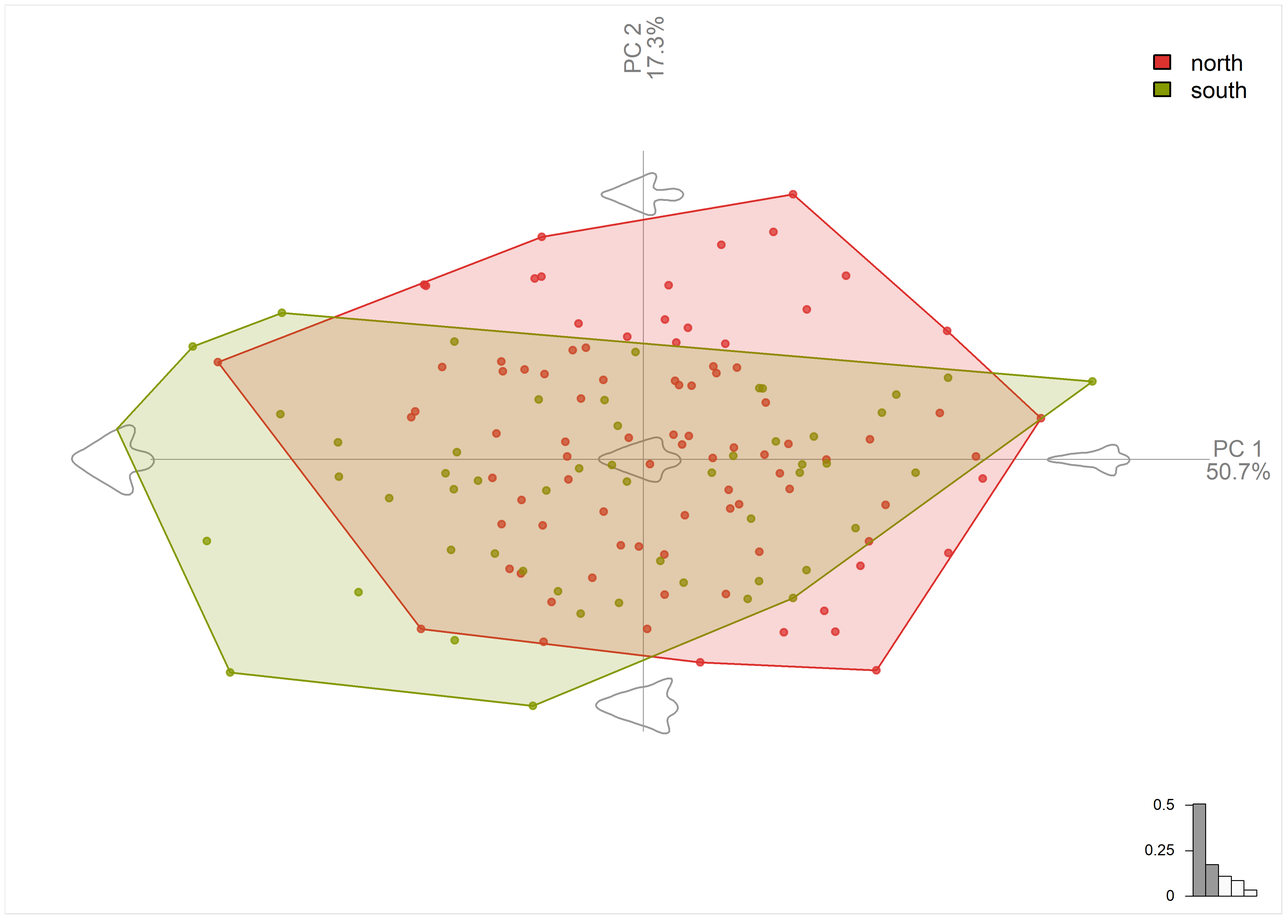
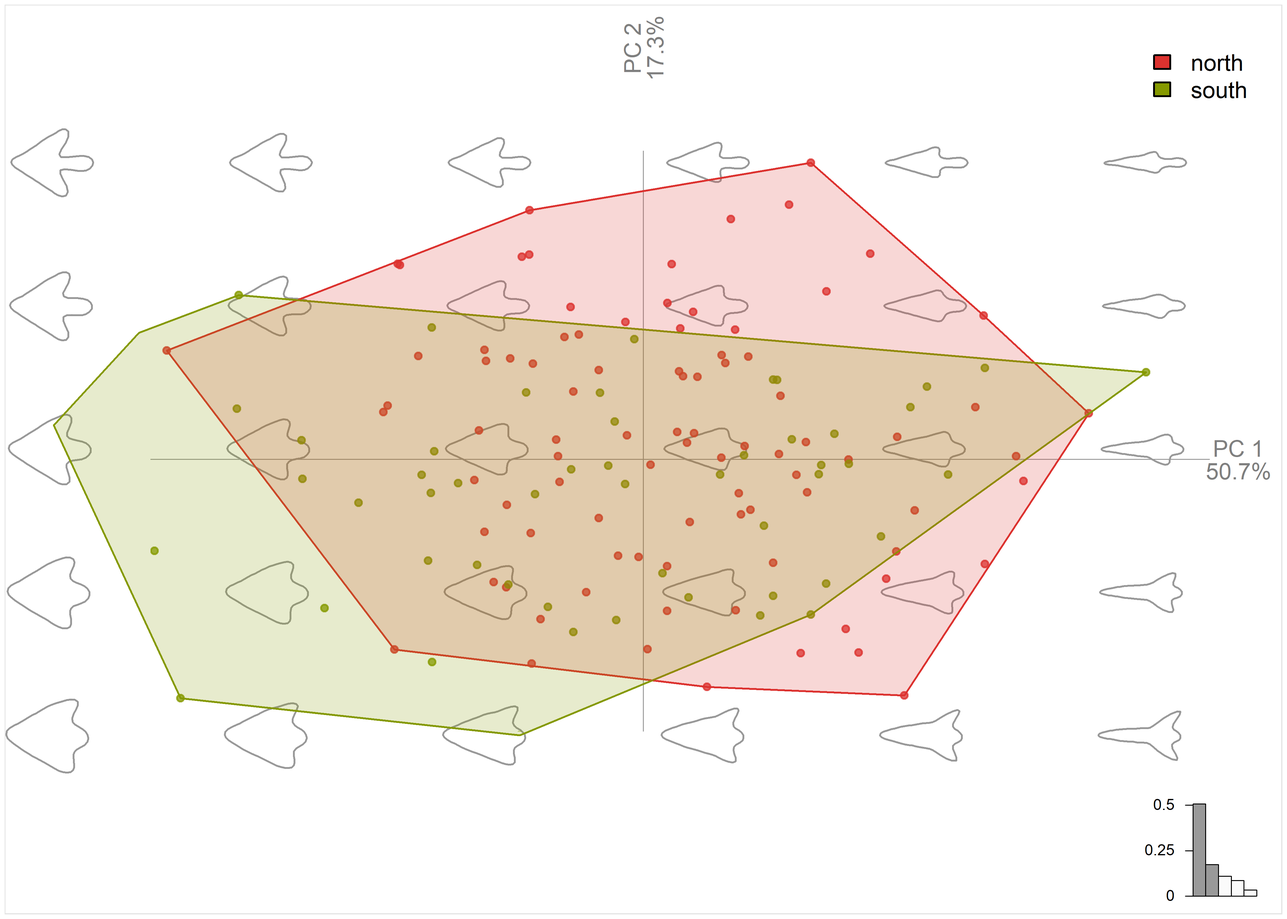
<pca.aesthetics>

diff --git a/docs/elliptical-fourier-analysis.html b/docs/elliptical-fourier-analysis.html
@@ -1349,7 +1349,7 @@ code span.wa { color: #60a0b0; font-weight: bold; font-style: italic; } /* Warni
 ## [ 140 / 142 ]  sy43-4.jpg
 ## [ 141 / 142 ]  sy43-5.jpg
 ## [ 142 / 142 ]  sy43-6.jpg</code></pre>
-<pre><code>## Done in 17.2 secs</code></pre>
+<pre><code>## Done in 17.3 secs</code></pre>
 <div class="sourceCode" id="cb8"><pre class="sourceCode r"><code class="sourceCode r"><span id="cb8-1"><a href="elliptical-fourier-analysis.html#cb8-1" aria-hidden="true" tabindex="-1"></a><span class="co"># add attributes</span></span>
 <span id="cb8-2"><a href="elliptical-fourier-analysis.html#cb8-2" aria-hidden="true" tabindex="-1"></a>data.out <span class="ot">&lt;-</span> <span class="fu">Out</span>(outlines, </span>
 <span id="cb8-3"><a href="elliptical-fourier-analysis.html#cb8-3" aria-hidden="true" tabindex="-1"></a>         <span class="at">fac =</span> att.data)</span>
@@ -1369,216 +1369,111 @@ code span.wa { color: #60a0b0; font-weight: bold; font-style: italic; } /* Warni
 <p><img src="supp_files/figure-html/cal.harm-1.png" width="100%" /></p>
 <pre><code>## 
 ## $q
-##                        h1       h2       h3       h4       h5
-## 489             72.808791 83.78198 95.17554 95.58620 96.94914
-## 490             64.114719 71.74229 80.72420 89.12673 91.89527
-## 553             60.227643 67.66112 78.47978 88.42469 91.97133
-## 554             40.784025 62.70509 71.02441 88.80778 92.02025
-## 555             71.883368 75.67063 83.98654 89.34967 91.27061
-## 556             40.131674 62.71068 66.15981 84.78732 88.45546
-## 558             63.012149 77.73567 90.06870 90.36598 91.90045
-## 559             37.440231 60.66242 71.29934 86.72881 90.17083
-## 562             60.694645 69.96634 77.12798 87.14123 90.12571
-## 565             64.493270 80.33025 89.87705 90.69617 92.26710
-## 591             32.410597 64.36665 71.82945 90.72323 94.12426
-## 598             54.095190 69.79342 80.21895 91.62848 93.17747
-## 645             37.430706 61.77266 70.12401 88.30539 92.41149
-## 646             48.472059 67.04623 73.39793 90.58139 94.34818
-## 647             63.962317 66.40189 73.20076 87.28925 92.34106
-## 648             51.661887 60.75373 67.73491 84.11689 90.80362
-## 649             13.198214 67.02359 73.20792 91.32686 96.27920
-## 650             62.500557 67.69024 73.36673 89.73518 94.63252
-## 651             25.861992 55.85938 68.03343 87.64255 92.73702
-## 652             22.576477 60.60679 68.19757 89.37573 93.98487
-## 653             53.506327 62.33004 70.77582 88.94387 93.68013
-## 654             44.031205 66.31590 73.29146 91.93527 95.20683
-## 655             53.169643 60.43443 64.83868 83.34328 89.55824
-## 656             57.110466 63.11221 68.16400 82.60450 87.07412
-## 657             44.153580 55.01196 61.02296 82.80466 87.94802
-## 658             61.749011 65.60642 71.58815 87.75926 93.23432
-## 659             50.938090 63.91895 68.76493 86.94809 89.69221
-## 660             44.673501 62.32531 67.80680 90.92520 94.83023
-## 661             48.318800 59.00113 64.26505 85.67911 90.52577
-## 665             72.904144 75.33543 80.78979 88.20015 91.08371
-## 677             43.622937 58.91874 66.48334 89.42983 93.54165
-## 678             70.247711 71.42578 81.10140 86.84716 90.52952
-## an115-fig7      52.227029 66.03736 74.39393 88.54440 91.97779
-## an51-fig26a     20.037123 58.27095 69.00891 87.33896 90.87947
-##                       h6       h7       h8       h9      h10
-## 489             97.61501 97.95870 98.99222 99.27944 99.61408
-## 490             97.25527 97.89054 98.43317 98.90168 99.21067
-## 553             97.96056 98.60926 99.03073 99.36751 99.44516
-## 554             97.18926 98.19496 98.35599 98.99227 99.07903
-## 555             96.88514 98.02617 99.22945 99.34429 99.35722
-## 556             94.74772 96.20115 97.07108 98.32436 98.35603
-## 558             93.94937 94.75257 97.47642 98.23127 99.15827
-## 559             96.07668 97.22067 97.71586 98.44616 98.50390
-## 562             96.20471 97.29606 98.57226 99.03098 99.22437
-## 565             94.75796 95.81031 98.49869 99.02328 99.61277
-## 591             97.00883 98.55887 98.61906 98.76021 99.38794
-## 598             97.30424 98.48432 98.73772 99.23659 99.27576
-## 645             97.17813 98.23178 98.46989 98.73442 98.95378
-## 646             96.89540 98.59301 98.84265 99.02189 99.39947
-## 647             97.84810 98.43246 98.57160 99.16726 99.23451
-## 648             96.67577 97.48979 97.90301 98.89001 98.98484
-## 649             97.08839 97.94181 98.50792 98.74961 99.32895
-## 650             98.08290 98.54933 98.77696 99.31998 99.46525
-## 651             96.70377 98.18765 98.36471 98.70513 99.13669
-## 652             96.56320 97.92897 98.12207 98.20926 99.08563
-## 653             97.88528 98.55523 98.78018 99.26962 99.35380
-## 654             97.46861 98.89531 98.97063 99.04404 99.48813
-## 655             96.76372 97.87205 98.10188 99.14485 99.17562
-## 656             95.61119 97.38995 98.24966 99.07245 99.19652
-## 657             95.93126 97.01850 97.71437 98.65702 98.74675
-## 658             98.24621 98.52779 98.82481 99.43320 99.46738
-## 659             95.89946 97.42615 98.12618 99.17514 99.18318
-## 660             96.73639 98.51319 98.64637 98.72393 99.36060
-## 661             96.55592 97.60929 98.05560 98.94426 98.98235
-## 665             97.41274 98.34543 99.00547 99.29183 99.36726
-## 677             96.83488 98.47343 98.69266 98.80843 99.14402
-## 678             96.31749 98.02421 99.25218 99.33627 99.38623
-## an115-fig7      97.28538 98.37656 98.66908 99.30542 99.38414
-## an51-fig26a     95.25013 97.25337 97.51169 97.69137 98.00853
-##                      h11      h12      h13      h14      h15
-## 489             99.66292 99.67257 99.74548 99.77200 99.80462
-## 490             99.26009 99.39885 99.47944 99.54422 99.59587
-## 553             99.53735 99.61913 99.67585 99.71820 99.75627
-## 554             99.18155 99.65220 99.70881 99.74345 99.82060
-## 555             99.65024 99.70336 99.74050 99.84641 99.86700
-## 556             98.48074 98.91994 99.09404 99.22256 99.33403
-## 558             99.24117 99.41253 99.50428 99.56908 99.72318
-## 559             98.65258 99.15941 99.41700 99.61239 99.65349
-## 562             99.49559 99.52488 99.55208 99.75261 99.77378
-## 565             99.62274 99.65681 99.75540 99.77200 99.81405
-## 591             99.56447 99.69590 99.74709 99.77566 99.78641
-## 598             99.30295 99.50219 99.52999 99.55235 99.69048
-## 645             99.08073 99.40631 99.44517 99.47290 99.55845
-## 646             99.48570 99.57729 99.68552 99.70816 99.72993
-## 647             99.33657 99.54623 99.61790 99.66645 99.73749
-## 648             99.05226 99.30660 99.42561 99.52725 99.64522
-## 649             99.45088 99.48496 99.54428 99.68207 99.72057
-## 650             99.56771 99.71114 99.72319 99.74218 99.76137
-## 651             99.30682 99.42507 99.45162 99.50142 99.52530
-## 652             99.26329 99.35190 99.43444 99.46619 99.51808
-## 653             99.44214 99.64394 99.65243 99.71399 99.78507
-## 654             99.58569 99.67358 99.74212 99.75227 99.76880
-## 655             99.18710 99.55622 99.62697 99.74582 99.74946
-## 656             99.44583 99.52592 99.55966 99.75749 99.77316
-## 657             98.81958 99.36470 99.57875 99.72769 99.75758
-## 658             99.50607 99.77579 99.82474 99.84460 99.85641
-## 659             99.26235 99.62159 99.66360 99.70855 99.81597
-## 660             99.56113 99.71252 99.74223 99.74241 99.75423
-## 661             99.00026 99.45111 99.52906 99.58658 99.67788
-## 665             99.57786 99.63159 99.67359 99.78074 99.78648
-## 677             99.27266 99.54711 99.57613 99.60539 99.62761
-## 678             99.56052 99.60291 99.61013 99.70996 99.78256
-## an115-fig7      99.42461 99.61270 99.62449 99.62990 99.65750
-## an51-fig26a     98.43021 98.56876 98.89093 99.10015 99.37975
-##                      h16      h17      h18      h19      h20
-## 489             99.82192 99.82341 99.85272 99.87865 99.91085
-## 490             99.62522 99.63711 99.71079 99.75015 99.75947
-## 553             99.77140 99.78933 99.81395 99.83675 99.88522
-## 554             99.82265 99.84003 99.88827 99.89508 99.90968
-## 555             99.89300 99.92314 99.94175 99.96739 99.96955
-## 556             99.42302 99.55630 99.59933 99.63249 99.66365
-## 558             99.74806 99.78242 99.84868 99.86327 99.88367
-## 559             99.69833 99.74681 99.79044 99.80719 99.82695
-## 562             99.82801 99.85958 99.86190 99.88385 99.89866
-## 565             99.84130 99.86763 99.88482 99.92366 99.94140
-## 591             99.87133 99.87713 99.88817 99.92076 99.92919
-## 598             99.74154 99.75481 99.81876 99.87467 99.87899
-## 645             99.56258 99.59820 99.71182 99.76571 99.83101
-## 646             99.80558 99.82420 99.83787 99.86296 99.89529
-## 647             99.75055 99.76713 99.77742 99.84435 99.86703
-## 648             99.65408 99.70820 99.73725 99.76721 99.84772
-## 649             99.77413 99.79398 99.81656 99.84928 99.87351
-## 650             99.77677 99.79153 99.81017 99.88066 99.88864
-## 651             99.60766 99.64903 99.71442 99.72953 99.80386
-## 652             99.67351 99.77700 99.78891 99.84286 99.85576
-## 653             99.82541 99.84104 99.87795 99.89456 99.89757
-## 654             99.82519 99.84526 99.85335 99.87885 99.89331
-## 655             99.76780 99.77633 99.81093 99.85482 99.87491
-## 656             99.80910 99.81796 99.84004 99.84539 99.89515
-## 657             99.77069 99.78894 99.81597 99.84526 99.85987
-## 658             99.86427 99.86832 99.91702 99.93080 99.94344
-## 659             99.83027 99.84733 99.86700 99.87883 99.88528
-## 660             99.80213 99.82431 99.83041 99.85408 99.87850
-## 661             99.69162 99.70964 99.76618 99.81364 99.85320
-## 665             99.80747 99.84066 99.85990 99.86897 99.90740
-## 677             99.71459 99.77934 99.78599 99.82397 99.84851
-## 678             99.78790 99.85325 99.87332 99.89596 99.90323
-## an115-fig7      99.66926 99.67207 99.72294 99.75347 99.78824
-## an51-fig26a     99.45431 99.66639 99.75295 99.78979 99.81799
-##                      h21      h22      h23      h24      h25
-## 489             99.92286 99.94669 99.96596 99.98339 99.98504
-## 490             99.78940 99.82367 99.86219 99.92748 99.93455
-## 553             99.89000 99.92227 99.92644 99.93262 99.94819
-## 554             99.92937 99.94159 99.94846 99.96047 99.97359
-## 555             99.97635 99.97732 99.98256 99.98329 99.99026
-## 556             99.69817 99.72227 99.73924 99.75857 99.78090
-## 558             99.90459 99.90700 99.92415 99.93280 99.97915
-## 559             99.87185 99.89070 99.93852 99.94821 99.96116
-## 562             99.90624 99.93707 99.94290 99.95298 99.95893
-## 565             99.95881 99.96587 99.98508 99.98571 99.98634
-## 591             99.94188 99.95569 99.96000 99.96944 99.97262
-## 598             99.89069 99.90750 99.93148 99.94348 99.97319
-## 645             99.88606 99.91024 99.91251 99.92711 99.93754
-## 646             99.89981 99.94561 99.94999 99.95108 99.96046
-## 647             99.88193 99.92977 99.95002 99.95551 99.97231
-## 648             99.86568 99.89290 99.92611 99.92919 99.94981
-## 649             99.88844 99.90363 99.90763 99.93084 99.94448
-## 650             99.92889 99.95128 99.95697 99.95804 99.97550
-## 651             99.82414 99.83815 99.86617 99.91585 99.92272
-## 652             99.90064 99.93449 99.93964 99.94659 99.96045
-## 653             99.90810 99.92429 99.94213 99.94952 99.96145
-## 654             99.91234 99.93124 99.94158 99.94476 99.95093
-## 655             99.91767 99.92153 99.93546 99.95328 99.96402
-## 656             99.90107 99.90748 99.93264 99.93569 99.95801
-## 657             99.87213 99.90453 99.93306 99.95702 99.97221
-## 658             99.95814 99.95937 99.96680 99.97460 99.98321
-## 659             99.90467 99.91397 99.94898 99.95854 99.96858
-## 660             99.89197 99.91011 99.92247 99.94037 99.95445
-## 661             99.88166 99.88563 99.89367 99.91834 99.93786
-## 665             99.90987 99.92833 99.94610 99.95185 99.96528
-## 677             99.87206 99.93771 99.93980 99.94562 99.95115
-## 678             99.92267 99.93005 99.94635 99.95250 99.96118
-## an115-fig7      99.82672 99.85442 99.89998 99.95409 99.96209
-## an51-fig26a     99.83093 99.84700 99.86316 99.89490 99.93231
-##                      h26      h27      h28 h29
-## 489             99.99251 99.99371 99.99574 100
-## 490             99.96848 99.98226 99.99078 100
-## 553             99.97288 99.98151 99.98828 100
-## 554             99.97812 99.98289 99.98863 100
-## 555             99.99125 99.99440 99.99454 100
-## 556             99.83743 99.87875 99.97544 100
-## 558             99.98029 99.98517 99.99161 100
-## 559             99.97516 99.98627 99.99001 100
-## 562             99.97706 99.97944 99.99213 100
-## 565             99.99102 99.99496 99.99815 100
-## 591             99.98283 99.98986 99.99933 100
-## 598             99.97965 99.99165 99.99538 100
-## 645             99.94735 99.96603 99.96636 100
-## 646             99.96673 99.97721 99.98563 100
-## 647             99.97771 99.97981 99.99703 100
-## 648             99.96239 99.98568 99.99734 100
-## 649             99.96397 99.97705 99.98854 100
-## 650             99.97808 99.98663 99.99276 100
-## 651             99.96878 99.97907 99.98814 100
-## 652             99.96570 99.97796 99.97914 100
-## 653             99.96616 99.97349 99.98101 100
-## 654             99.97372 99.98650 99.99498 100
-## 655             99.97827 99.98215 99.98870 100
-## 656             99.96491 99.98486 99.99717 100
-## 657             99.97408 99.99000 99.99282 100
-## 658             99.98500 99.99520 99.99921 100
-## 659             99.97314 99.98438 99.99169 100
-## 660             99.97124 99.97581 99.98600 100
-## 661             99.95715 99.98864 99.99733 100
-## 665             99.97796 99.98729 99.99499 100
-## 677             99.96424 99.97163 99.99565 100
-## 678             99.96790 99.97532 99.98628 100
-## an115-fig7      99.96910 99.97535 99.99002 100
-## an51-fig26a     99.96307 99.96865 99.99647 100
+##                        h1       h2       h3       h4       h5       h6       h7       h8       h9      h10      h11      h12      h13
+## 489             72.808791 83.78198 95.17554 95.58620 96.94914 97.61501 97.95870 98.99222 99.27944 99.61408 99.66292 99.67257 99.74548
+## 490             64.114719 71.74229 80.72420 89.12673 91.89527 97.25527 97.89054 98.43317 98.90168 99.21067 99.26009 99.39885 99.47944
+## 553             60.227643 67.66112 78.47978 88.42469 91.97133 97.96056 98.60926 99.03073 99.36751 99.44516 99.53735 99.61913 99.67585
+## 554             40.784025 62.70509 71.02441 88.80778 92.02025 97.18926 98.19496 98.35599 98.99227 99.07903 99.18155 99.65220 99.70881
+## 555             71.883368 75.67063 83.98654 89.34967 91.27061 96.88514 98.02617 99.22945 99.34429 99.35722 99.65024 99.70336 99.74050
+## 556             40.131674 62.71068 66.15981 84.78732 88.45546 94.74772 96.20115 97.07108 98.32436 98.35603 98.48074 98.91994 99.09404
+## 558             63.012149 77.73567 90.06870 90.36598 91.90045 93.94937 94.75257 97.47642 98.23127 99.15827 99.24117 99.41253 99.50428
+## 559             37.440231 60.66242 71.29934 86.72881 90.17083 96.07668 97.22067 97.71586 98.44616 98.50390 98.65258 99.15941 99.41700
+## 562             60.694645 69.96634 77.12798 87.14123 90.12571 96.20471 97.29606 98.57226 99.03098 99.22437 99.49559 99.52488 99.55208
+## 565             64.493270 80.33025 89.87705 90.69617 92.26710 94.75796 95.81031 98.49869 99.02328 99.61277 99.62274 99.65681 99.75540
+## 591             32.410597 64.36665 71.82945 90.72323 94.12426 97.00883 98.55887 98.61906 98.76021 99.38794 99.56447 99.69590 99.74709
+## 598             54.095190 69.79342 80.21895 91.62848 93.17747 97.30424 98.48432 98.73772 99.23659 99.27576 99.30295 99.50219 99.52999
+## 645             37.430706 61.77266 70.12401 88.30539 92.41149 97.17813 98.23178 98.46989 98.73442 98.95378 99.08073 99.40631 99.44517
+## 646             48.472059 67.04623 73.39793 90.58139 94.34818 96.89540 98.59301 98.84265 99.02189 99.39947 99.48570 99.57729 99.68552
+## 647             63.962317 66.40189 73.20076 87.28925 92.34106 97.84810 98.43246 98.57160 99.16726 99.23451 99.33657 99.54623 99.61790
+## 648             51.661887 60.75373 67.73491 84.11689 90.80362 96.67577 97.48979 97.90301 98.89001 98.98484 99.05226 99.30660 99.42561
+## 649             13.198214 67.02359 73.20792 91.32686 96.27920 97.08839 97.94181 98.50792 98.74961 99.32895 99.45088 99.48496 99.54428
+## 650             62.500557 67.69024 73.36673 89.73518 94.63252 98.08290 98.54933 98.77696 99.31998 99.46525 99.56771 99.71114 99.72319
+## 651             25.861992 55.85938 68.03343 87.64255 92.73702 96.70377 98.18765 98.36471 98.70513 99.13669 99.30682 99.42507 99.45162
+## 652             22.576477 60.60679 68.19757 89.37573 93.98487 96.56320 97.92897 98.12207 98.20926 99.08563 99.26329 99.35190 99.43444
+## 653             53.506327 62.33004 70.77582 88.94387 93.68013 97.88528 98.55523 98.78018 99.26962 99.35380 99.44214 99.64394 99.65243
+## 654             44.031205 66.31590 73.29146 91.93527 95.20683 97.46861 98.89531 98.97063 99.04404 99.48813 99.58569 99.67358 99.74212
+## 655             53.169643 60.43443 64.83868 83.34328 89.55824 96.76372 97.87205 98.10188 99.14485 99.17562 99.18710 99.55622 99.62697
+## 656             57.110466 63.11221 68.16400 82.60450 87.07412 95.61119 97.38995 98.24966 99.07245 99.19652 99.44583 99.52592 99.55966
+## 657             44.153580 55.01196 61.02296 82.80466 87.94802 95.93126 97.01850 97.71437 98.65702 98.74675 98.81958 99.36470 99.57875
+## 658             61.749011 65.60642 71.58815 87.75926 93.23432 98.24621 98.52779 98.82481 99.43320 99.46738 99.50607 99.77579 99.82474
+## 659             50.938090 63.91895 68.76493 86.94809 89.69221 95.89946 97.42615 98.12618 99.17514 99.18318 99.26235 99.62159 99.66360
+## 660             44.673501 62.32531 67.80680 90.92520 94.83023 96.73639 98.51319 98.64637 98.72393 99.36060 99.56113 99.71252 99.74223
+## 661             48.318800 59.00113 64.26505 85.67911 90.52577 96.55592 97.60929 98.05560 98.94426 98.98235 99.00026 99.45111 99.52906
+## 665             72.904144 75.33543 80.78979 88.20015 91.08371 97.41274 98.34543 99.00547 99.29183 99.36726 99.57786 99.63159 99.67359
+## 677             43.622937 58.91874 66.48334 89.42983 93.54165 96.83488 98.47343 98.69266 98.80843 99.14402 99.27266 99.54711 99.57613
+## 678             70.247711 71.42578 81.10140 86.84716 90.52952 96.31749 98.02421 99.25218 99.33627 99.38623 99.56052 99.60291 99.61013
+## an115-fig7      52.227029 66.03736 74.39393 88.54440 91.97779 97.28538 98.37656 98.66908 99.30542 99.38414 99.42461 99.61270 99.62449
+## an51-fig26a     20.037123 58.27095 69.00891 87.33896 90.87947 95.25013 97.25337 97.51169 97.69137 98.00853 98.43021 98.56876 98.89093
+##                      h14      h15      h16      h17      h18      h19      h20      h21      h22      h23      h24      h25      h26
+## 489             99.77200 99.80462 99.82192 99.82341 99.85272 99.87865 99.91085 99.92286 99.94669 99.96596 99.98339 99.98504 99.99251
+## 490             99.54422 99.59587 99.62522 99.63711 99.71079 99.75015 99.75947 99.78940 99.82367 99.86219 99.92748 99.93455 99.96848
+## 553             99.71820 99.75627 99.77140 99.78933 99.81395 99.83675 99.88522 99.89000 99.92227 99.92644 99.93262 99.94819 99.97288
+## 554             99.74345 99.82060 99.82265 99.84003 99.88827 99.89508 99.90968 99.92937 99.94159 99.94846 99.96047 99.97359 99.97812
+## 555             99.84641 99.86700 99.89300 99.92314 99.94175 99.96739 99.96955 99.97635 99.97732 99.98256 99.98329 99.99026 99.99125
+## 556             99.22256 99.33403 99.42302 99.55630 99.59933 99.63249 99.66365 99.69817 99.72227 99.73924 99.75857 99.78090 99.83743
+## 558             99.56908 99.72318 99.74806 99.78242 99.84868 99.86327 99.88367 99.90459 99.90700 99.92415 99.93280 99.97915 99.98029
+## 559             99.61239 99.65349 99.69833 99.74681 99.79044 99.80719 99.82695 99.87185 99.89070 99.93852 99.94821 99.96116 99.97516
+## 562             99.75261 99.77378 99.82801 99.85958 99.86190 99.88385 99.89866 99.90624 99.93707 99.94290 99.95298 99.95893 99.97706
+## 565             99.77200 99.81405 99.84130 99.86763 99.88482 99.92366 99.94140 99.95881 99.96587 99.98508 99.98571 99.98634 99.99102
+## 591             99.77566 99.78641 99.87133 99.87713 99.88817 99.92076 99.92919 99.94188 99.95569 99.96000 99.96944 99.97262 99.98283
+## 598             99.55235 99.69048 99.74154 99.75481 99.81876 99.87467 99.87899 99.89069 99.90750 99.93148 99.94348 99.97319 99.97965
+## 645             99.47290 99.55845 99.56258 99.59820 99.71182 99.76571 99.83101 99.88606 99.91024 99.91251 99.92711 99.93754 99.94735
+## 646             99.70816 99.72993 99.80558 99.82420 99.83787 99.86296 99.89529 99.89981 99.94561 99.94999 99.95108 99.96046 99.96673
+## 647             99.66645 99.73749 99.75055 99.76713 99.77742 99.84435 99.86703 99.88193 99.92977 99.95002 99.95551 99.97231 99.97771
+## 648             99.52725 99.64522 99.65408 99.70820 99.73725 99.76721 99.84772 99.86568 99.89290 99.92611 99.92919 99.94981 99.96239
+## 649             99.68207 99.72057 99.77413 99.79398 99.81656 99.84928 99.87351 99.88844 99.90363 99.90763 99.93084 99.94448 99.96397
+## 650             99.74218 99.76137 99.77677 99.79153 99.81017 99.88066 99.88864 99.92889 99.95128 99.95697 99.95804 99.97550 99.97808
+## 651             99.50142 99.52530 99.60766 99.64903 99.71442 99.72953 99.80386 99.82414 99.83815 99.86617 99.91585 99.92272 99.96878
+## 652             99.46619 99.51808 99.67351 99.77700 99.78891 99.84286 99.85576 99.90064 99.93449 99.93964 99.94659 99.96045 99.96570
+## 653             99.71399 99.78507 99.82541 99.84104 99.87795 99.89456 99.89757 99.90810 99.92429 99.94213 99.94952 99.96145 99.96616
+## 654             99.75227 99.76880 99.82519 99.84526 99.85335 99.87885 99.89331 99.91234 99.93124 99.94158 99.94476 99.95093 99.97372
+## 655             99.74582 99.74946 99.76780 99.77633 99.81093 99.85482 99.87491 99.91767 99.92153 99.93546 99.95328 99.96402 99.97827
+## 656             99.75749 99.77316 99.80910 99.81796 99.84004 99.84539 99.89515 99.90107 99.90748 99.93264 99.93569 99.95801 99.96491
+## 657             99.72769 99.75758 99.77069 99.78894 99.81597 99.84526 99.85987 99.87213 99.90453 99.93306 99.95702 99.97221 99.97408
+## 658             99.84460 99.85641 99.86427 99.86832 99.91702 99.93080 99.94344 99.95814 99.95937 99.96680 99.97460 99.98321 99.98500
+## 659             99.70855 99.81597 99.83027 99.84733 99.86700 99.87883 99.88528 99.90467 99.91397 99.94898 99.95854 99.96858 99.97314
+## 660             99.74241 99.75423 99.80213 99.82431 99.83041 99.85408 99.87850 99.89197 99.91011 99.92247 99.94037 99.95445 99.97124
+## 661             99.58658 99.67788 99.69162 99.70964 99.76618 99.81364 99.85320 99.88166 99.88563 99.89367 99.91834 99.93786 99.95715
+## 665             99.78074 99.78648 99.80747 99.84066 99.85990 99.86897 99.90740 99.90987 99.92833 99.94610 99.95185 99.96528 99.97796
+## 677             99.60539 99.62761 99.71459 99.77934 99.78599 99.82397 99.84851 99.87206 99.93771 99.93980 99.94562 99.95115 99.96424
+## 678             99.70996 99.78256 99.78790 99.85325 99.87332 99.89596 99.90323 99.92267 99.93005 99.94635 99.95250 99.96118 99.96790
+## an115-fig7      99.62990 99.65750 99.66926 99.67207 99.72294 99.75347 99.78824 99.82672 99.85442 99.89998 99.95409 99.96209 99.96910
+## an51-fig26a     99.10015 99.37975 99.45431 99.66639 99.75295 99.78979 99.81799 99.83093 99.84700 99.86316 99.89490 99.93231 99.96307
+##                      h27      h28 h29
+## 489             99.99371 99.99574 100
+## 490             99.98226 99.99078 100
+## 553             99.98151 99.98828 100
+## 554             99.98289 99.98863 100
+## 555             99.99440 99.99454 100
+## 556             99.87875 99.97544 100
+## 558             99.98517 99.99161 100
+## 559             99.98627 99.99001 100
+## 562             99.97944 99.99213 100
+## 565             99.99496 99.99815 100
+## 591             99.98986 99.99933 100
+## 598             99.99165 99.99538 100
+## 645             99.96603 99.96636 100
+## 646             99.97721 99.98563 100
+## 647             99.97981 99.99703 100
+## 648             99.98568 99.99734 100
+## 649             99.97705 99.98854 100
+## 650             99.98663 99.99276 100
+## 651             99.97907 99.98814 100
+## 652             99.97796 99.97914 100
+## 653             99.97349 99.98101 100
+## 654             99.98650 99.99498 100
+## 655             99.98215 99.98870 100
+## 656             99.98486 99.99717 100
+## 657             99.99000 99.99282 100
+## 658             99.99520 99.99921 100
+## 659             99.98438 99.99169 100
+## 660             99.97581 99.98600 100
+## 661             99.98864 99.99733 100
+## 665             99.98729 99.99499 100
+## 677             99.97163 99.99565 100
+## 678             99.97532 99.98628 100
+## an115-fig7      99.97535 99.99002 100
+## an51-fig26a     99.96865 99.99647 100
 ##  [ reached getOption(&quot;max.print&quot;) -- omitted 108 rows ]
 ## 
 ## $minh
@@ -1603,7 +1498,7 @@ code span.wa { color: #60a0b0; font-weight: bold; font-style: italic; } /* Warni
 <p><img src="supp_files/figure-html/pca.plot-1.png" width="100%" /></p>
 <div class="sourceCode" id="cb15"><pre class="sourceCode r"><code class="sourceCode r"><span id="cb15-1"><a href="elliptical-fourier-analysis.html#cb15-1" aria-hidden="true" tabindex="-1"></a><span class="co"># plot pca by region</span></span>
 <span id="cb15-2"><a href="elliptical-fourier-analysis.html#cb15-2" aria-hidden="true" tabindex="-1"></a><span class="fu">plot_PCA</span>(pca.outlines, </span>
-<span id="cb15-3"><a href="elliptical-fourier-analysis.html#cb15-3" aria-hidden="true" tabindex="-1"></a>         <span class="at">morphospace_position =</span> <span class="st">&quot;range_axes&quot;</span>,</span>
+<span id="cb15-3"><a href="elliptical-fourier-analysis.html#cb15-3" aria-hidden="true" tabindex="-1"></a>         <span class="at">morphospace_position =</span> <span class="st">&quot;range&quot;</span>,</span>
 <span id="cb15-4"><a href="elliptical-fourier-analysis.html#cb15-4" aria-hidden="true" tabindex="-1"></a>         <span class="at">palette =</span> pal_qual_solarized,</span>
 <span id="cb15-5"><a href="elliptical-fourier-analysis.html#cb15-5" aria-hidden="true" tabindex="-1"></a>         <span class="at">chullfilled =</span> <span class="cn">TRUE</span>,</span>
 <span id="cb15-6"><a href="elliptical-fourier-analysis.html#cb15-6" aria-hidden="true" tabindex="-1"></a>         <span class="sc">~</span>region,</span>
@@ -1611,11 +1506,11 @@ code span.wa { color: #60a0b0; font-weight: bold; font-style: italic; } /* Warni
 <span id="cb15-8"><a href="elliptical-fourier-analysis.html#cb15-8" aria-hidden="true" tabindex="-1"></a>         <span class="at">morphospace =</span> <span class="cn">TRUE</span>,</span>
 <span id="cb15-9"><a href="elliptical-fourier-analysis.html#cb15-9" aria-hidden="true" tabindex="-1"></a>         <span class="at">eigen =</span> <span class="cn">TRUE</span>,</span>
 <span id="cb15-10"><a href="elliptical-fourier-analysis.html#cb15-10" aria-hidden="true" tabindex="-1"></a>         <span class="at">center_origin =</span> <span class="cn">TRUE</span>,</span>
-<span id="cb15-11"><a href="elliptical-fourier-analysis.html#cb15-11" aria-hidden="true" tabindex="-1"></a>         <span class="at">zoom =</span> <span class="fl">1.25</span>)</span></code></pre></div>
+<span id="cb15-11"><a href="elliptical-fourier-analysis.html#cb15-11" aria-hidden="true" tabindex="-1"></a>         <span class="at">zoom =</span> <span class="fl">1.4</span>)</span></code></pre></div>
 <p><img src="supp_files/figure-html/pca.plot-2.png" width="100%" /></p>
 <div class="sourceCode" id="cb16"><pre class="sourceCode r"><code class="sourceCode r"><span id="cb16-1"><a href="elliptical-fourier-analysis.html#cb16-1" aria-hidden="true" tabindex="-1"></a><span class="co"># plot pca by temporal + region</span></span>
 <span id="cb16-2"><a href="elliptical-fourier-analysis.html#cb16-2" aria-hidden="true" tabindex="-1"></a><span class="fu">plot_PCA</span>(pca.outlines, </span>
-<span id="cb16-3"><a href="elliptical-fourier-analysis.html#cb16-3" aria-hidden="true" tabindex="-1"></a>         <span class="at">morphospace_position =</span> <span class="st">&quot;range_axes&quot;</span>,</span>
+<span id="cb16-3"><a href="elliptical-fourier-analysis.html#cb16-3" aria-hidden="true" tabindex="-1"></a>         <span class="at">morphospace_position =</span> <span class="st">&quot;range&quot;</span>,</span>
 <span id="cb16-4"><a href="elliptical-fourier-analysis.html#cb16-4" aria-hidden="true" tabindex="-1"></a>         <span class="at">palette =</span> pal_qual_solarized,</span>
 <span id="cb16-5"><a href="elliptical-fourier-analysis.html#cb16-5" aria-hidden="true" tabindex="-1"></a>         <span class="at">chullfilled =</span> <span class="cn">TRUE</span>,</span>
 <span id="cb16-6"><a href="elliptical-fourier-analysis.html#cb16-6" aria-hidden="true" tabindex="-1"></a>         <span class="sc">~</span>temp.reg,</span>
@@ -1636,23 +1531,17 @@ code span.wa { color: #60a0b0; font-weight: bold; font-style: italic; } /* Warni
 <span id="cb18-3"><a href="elliptical-fourier-analysis.html#cb18-3" aria-hidden="true" tabindex="-1"></a><span class="co"># shape difference between temporal periods?</span></span>
 <span id="cb18-4"><a href="elliptical-fourier-analysis.html#cb18-4" aria-hidden="true" tabindex="-1"></a><span class="fu">MANOVA</span>(pca.outlines, <span class="st">&#39;region&#39;</span>)</span></code></pre></div>
 <pre><code>## PC axes 1 to 18 were retained</code></pre>
-<pre><code>##            Df Hotelling-Lawley approx F num Df den Df    Pr(&gt;F)
-## fac         1             0.91   6.2183     18    123 1.424e-10
-## Residuals 140                                                  
-##              
-## fac       ***
-## Residuals    
+<pre><code>##            Df Hotelling-Lawley approx F num Df den Df    Pr(&gt;F)    
+## fac         1             0.91   6.2183     18    123 1.424e-10 ***
+## Residuals 140                                                      
 ## ---
 ## Signif. codes:  0 &#39;***&#39; 0.001 &#39;**&#39; 0.01 &#39;*&#39; 0.05 &#39;.&#39; 0.1 &#39; &#39; 1</code></pre>
 <div class="sourceCode" id="cb21"><pre class="sourceCode r"><code class="sourceCode r"><span id="cb21-1"><a href="elliptical-fourier-analysis.html#cb21-1" aria-hidden="true" tabindex="-1"></a><span class="co"># shape difference between temp.reg?</span></span>
 <span id="cb21-2"><a href="elliptical-fourier-analysis.html#cb21-2" aria-hidden="true" tabindex="-1"></a><span class="fu">MANOVA</span>(pca.outlines, <span class="st">&#39;temp.reg&#39;</span>)</span></code></pre></div>
 <pre><code>## PC axes 1 to 18 were retained</code></pre>
-<pre><code>##            Df Hotelling-Lawley approx F num Df den Df    Pr(&gt;F)
-## fac         4           2.5095   4.1302     72    474 &lt; 2.2e-16
-## Residuals 137                                                  
-##              
-## fac       ***
-## Residuals    
+<pre><code>##            Df Hotelling-Lawley approx F num Df den Df    Pr(&gt;F)    
+## fac         4           2.5095   4.1302     72    474 &lt; 2.2e-16 ***
+## Residuals 137                                                      
 ## ---
 ## Signif. codes:  0 &#39;***&#39; 0.001 &#39;**&#39; 0.01 &#39;*&#39; 0.05 &#39;.&#39; 0.1 &#39; &#39; 1</code></pre>
 <div class="sourceCode" id="cb24"><pre class="sourceCode r"><code class="sourceCode r"><span id="cb24-1"><a href="elliptical-fourier-analysis.html#cb24-1" aria-hidden="true" tabindex="-1"></a><span class="co"># which differ?</span></span>
